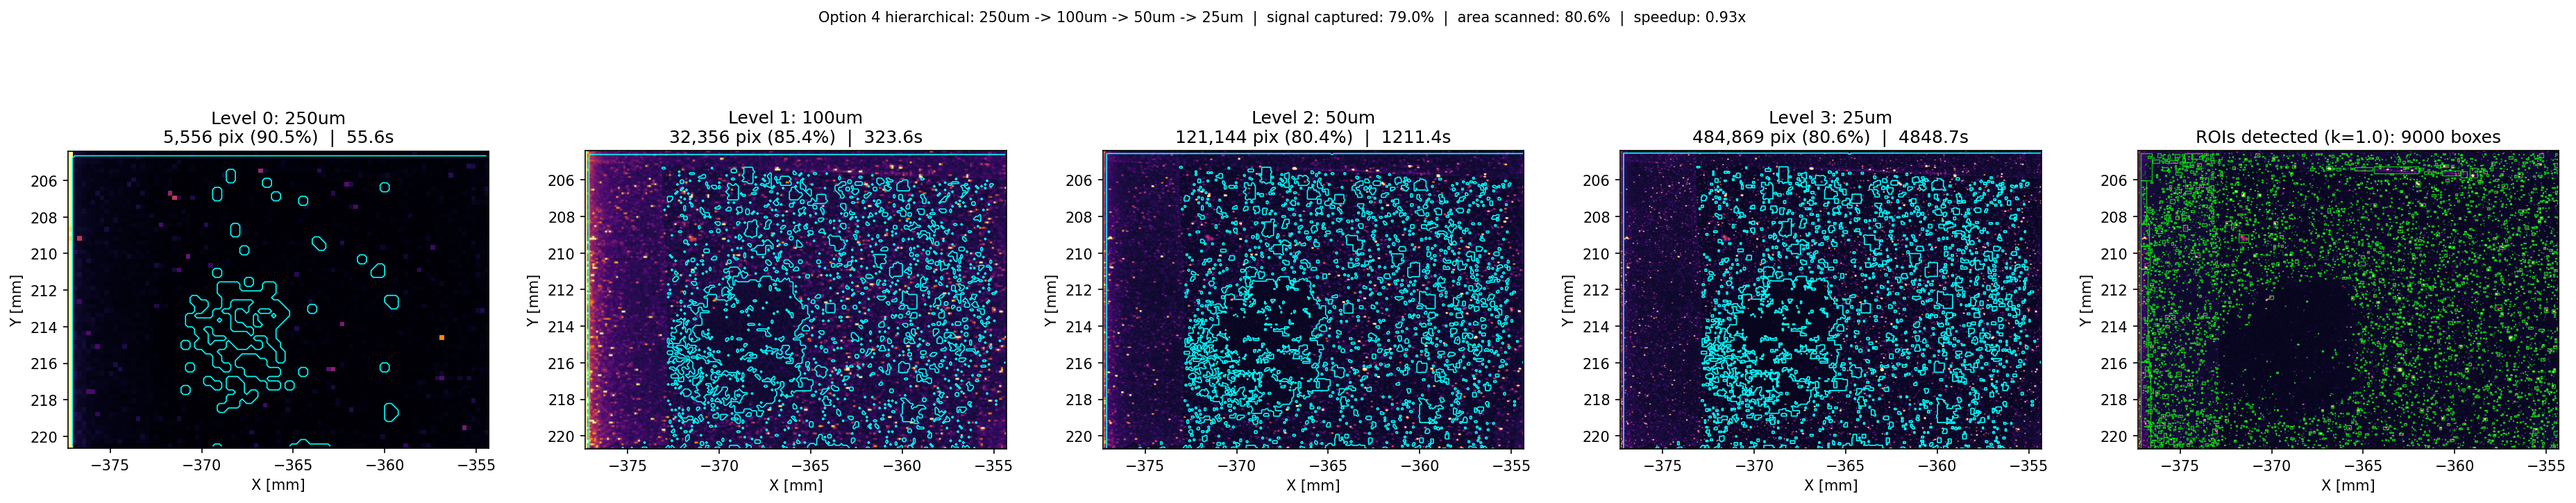
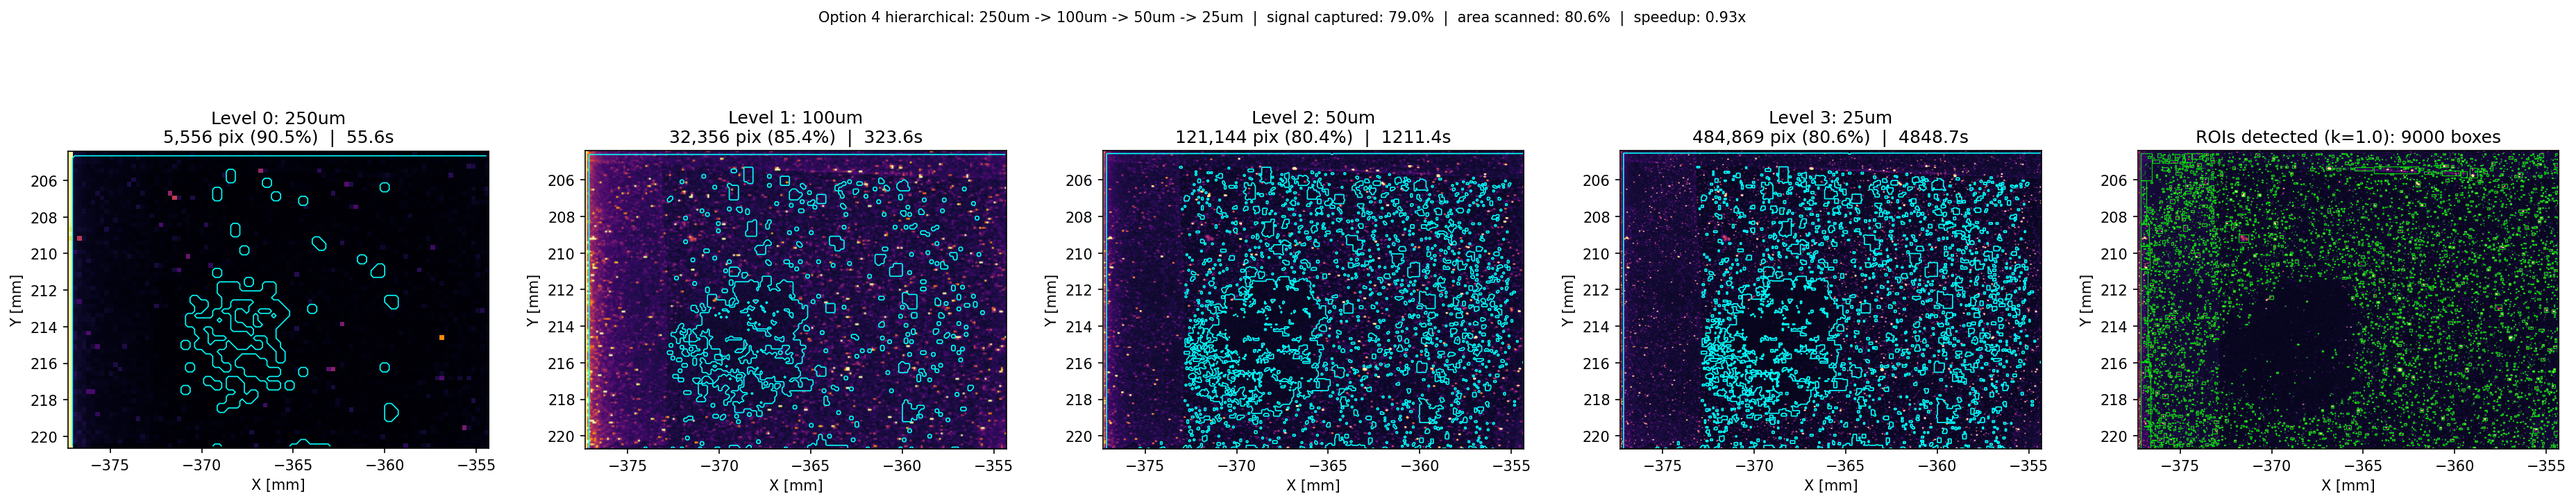
Fix cascade figure: plot the actual per-level mask, not a recomputed/projected one
The cascade plot recomputed level 0 with default params and drew the FINAL mask
reprojected onto every finer level, so the cyan footprint contours did not match
the mask actually used at each level (it could look like the left of the field
was excluded when it wasn't). refine_cascade now keeps each level's real mask and
05 plots it. Verified: the footprint shrinks faithfully 90.5%->80.6% and the
signal-rich left region is correctly inside the mask. Regenerated UA1/UB1/FP1.

Changed region(s): [[0.2479, 0.3338, 0.4029, 0.88]]

diff --git a/scripts/05_validate_hierarchical.py b/scripts/05_validate_hierarchical.py
@@ -31,9 +31,7 @@ import numpy as np
 
 sys.path.insert(0, str(Path(__file__).parent))
 from utils.hdf5_reader import load_xrf, get_composite_map
-from utils.roi_utils import (sample_mask, threshold_map, label_rois,
-                              get_bounding_boxes)
-from utils.validation_utils import project_mask
+from utils.roi_utils import threshold_map, label_rois, get_bounding_boxes
 from utils.cascade import find_level_file, refine_cascade, dwell_ms_from_path
 from utils.plotting import save_and_show
 
@@ -181,18 +179,9 @@ def main():
         ax.imshow(comp, extent=extent, origin="upper", aspect="equal",
                   cmap="inferno", vmin=0, vmax=vmax)
 
-        # contour of the mask at this level
-        if i == 0:
-            m_show = sample_mask(comp, kernel_px=args.kernel)[0]
-        else:
-            # reconstitute the mask projected onto this level for display
-            prev_d = scans[levels[i - 1]]["data"]
-            # rebuild from per_level_stats - we lost intermediate masks;
-            # for display, just use intersection of comp>thresh with prev projected
-            # (the mask variable now holds the FINEST level mask)
-            # Simpler: project final mask back onto this level
-            m_show = project_mask(mask, fine["xdata"], fine["ydata"],
-                                  d["xdata"], d["ydata"])
+        # contour of the ACTUAL mask used at this level (kept by refine_cascade),
+        # not a recomputed/reprojected approximation.
+        m_show = s["mask"]
 
         ax.contour(m_show.astype(float), levels=[0.5], colors="cyan",
                    linewidths=0.8, extent=extent, origin="upper")

diff --git a/scripts/utils/cascade.py b/scripts/utils/cascade.py
@@ -151,6 +151,7 @@ def refine_cascade(scans, kernel_px=2, mode="otsu_lower", level=50.0,
 
         st["px"] = px
         st["shape"] = data["mapdata"].shape if "mapdata" in data else comp.shape
+        st["mask"] = m          # this level's ACTUAL mask (for faithful plotting)
         stats_all.append(st)
 
         if verbose:
